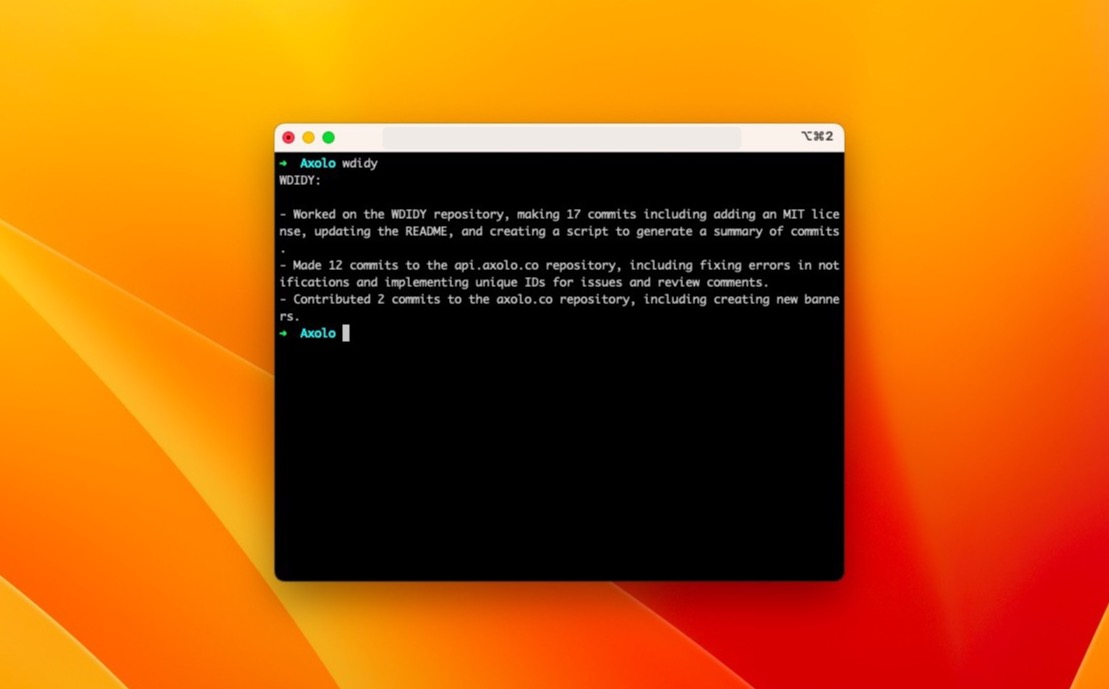
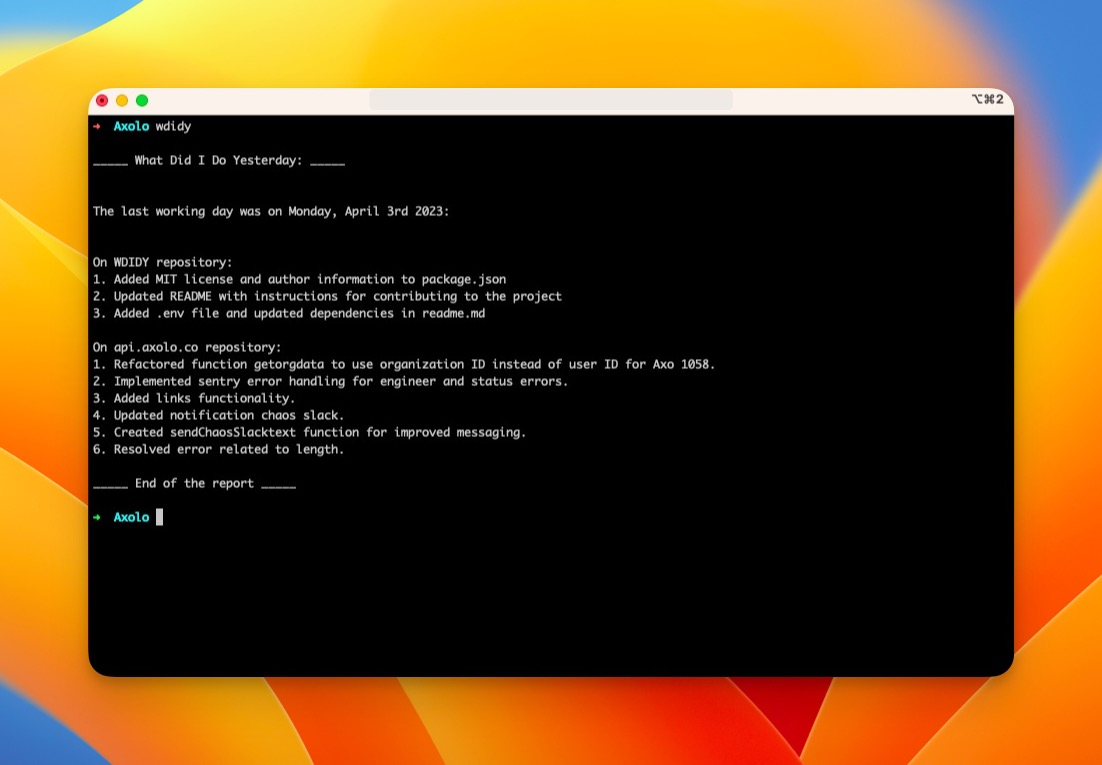
Save changes to images and wdidy.js files

diff --git a/wdidy.js b/wdidy.js
@@ -110,7 +110,7 @@ async function generateBulletPoints(summary) {
         messages: [
           {
             role: 'user',
-            content: `Help me prepare my standup of thing I did, I need to know in a 3 to 6 bullets points what I was up to recently from this list of commits from Github.\n\n${summary}`,
+            content: `Create a numbered list of 3 to 6 key accomplishments from my recent GitHub commits for a concise stand-up summary. Use the provided commit summary as reference:\n\n${summary}`,
           },
         ],
         temperature: 0.7,
